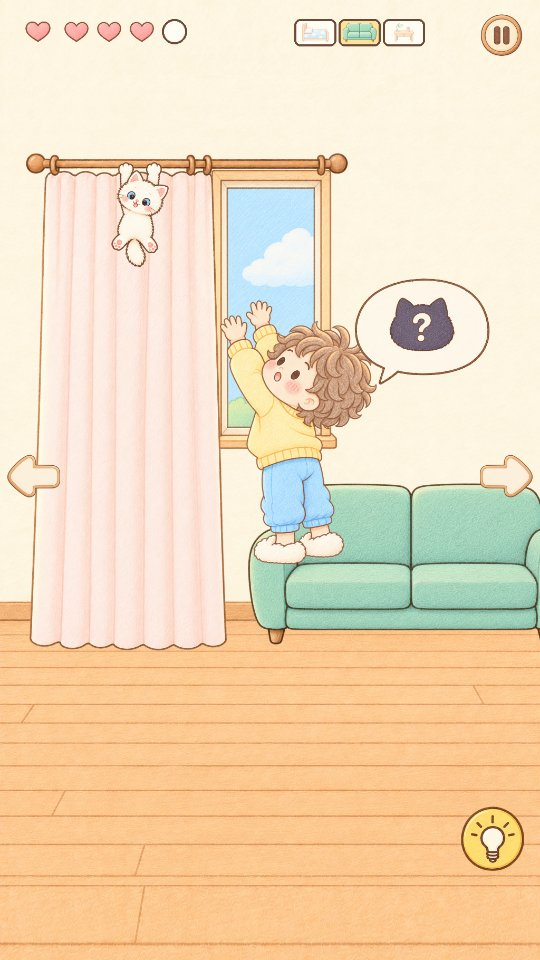
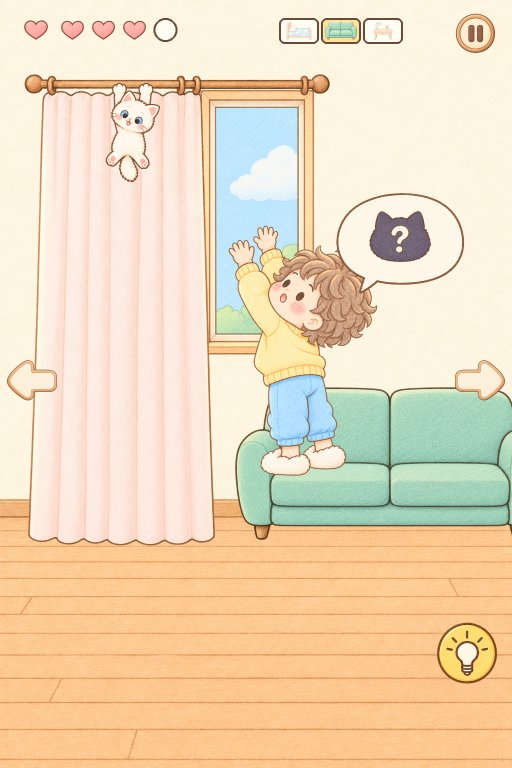
L3: ẩn quả bông riêng khi cột cào vẽ liền nhân vật (l3_cat_tree_player); L4: nhân vật đứng trên đệm ngồi sofa, lún nhẹ

diff --git a/game/src/level4.js b/game/src/level4.js
@@ -41,9 +41,9 @@ const OVERLAP = [14, 14, 10], FEET_SINK = 8;
 // Bong bóng nhiệm vụ lúc mở màn (G4-31: nhỏ hơn; G4-40: cạnh đầu nhân vật đứng trên sofa): tâm (toạ độ màn hình), cỡ so với bản chung.
 const BUBBLE = { x: 800, y: 470, k: 0.8 };
 const SOFA = { left: 470, width: 620 };              // G4-24: sofa theo demo phòng khách
-// G4-40: nhân vật đứng sẵn trên sofa cạnh rèm (không che chỗ xếp tháp): chân ở mặt nệm, cách mép trái sofa `dx`,
-// mặt nệm ở `seat` chiều cao phần vẽ sofa. Thỉnh thoảng (6–10 giây, khi ở phòng khách) kiễng chân với hụt một cái.
-const ON_SOFA = { dx: 95, seat: 0.5, every: [6000, 10000] };
+// G4-40: nhân vật đứng sẵn trên sofa cạnh rèm (không che chỗ xếp tháp): neo đáy (giữa hai dép) trên đệm ngồi, lún nhẹ;
+// cách mép trái phần vẽ sofa `dx`, ở `seat` chiều cao phần vẽ sofa. Thỉnh thoảng (6–10 giây, khi ở phòng khách) kiễng chân với hụt một cái.
+const ON_SOFA = { dx: 135, seat: 0.58, every: [6000, 10000] };
 const WINDOW_BOX = { right: 640, bottom: 710, height: 530 }; // cửa sổ đo trên l4_demo_living (khung + bậu; mép trái khuất sau rèm)
 const POSES = ['sua_curtain_banana', 'sua_curtain_one_paw', 'sua_curtain_upside', 'sua_curtain_sleep']; // đổi mỗi lần về phòng khách
 // Chỉ hàng sách tầng dưới cùng rơi (G4-18).

diff --git a/game/src/level3.js b/game/src/level3.js
@@ -779,8 +779,11 @@ export class Level3 extends ObjectLevel {
 
   curlOnTree(p) {
     const t = this.tree, r = this.artRect(t);
-    if ((this.A.entries.l3_cat_tree_player || {}).real && this.has('l3_cat_tree_player')) {
+    const drawn = (this.A.entries.l3_cat_tree_player || {}).real && this.has('l3_cat_tree_player');
+    if (drawn) {
+      // Ảnh Art vẽ liền cột cào + nhân vật + quả bông nhân vật đang vờn: ẩn nhân vật và quả bông riêng.
       p.setVisible(false);
+      this.pompom.setVisible(false);
       this.applyKey(t, 'l3_cat_tree_player');
     } else {
       this.applyKey(p, 'player_curl_on_tree');
@@ -795,6 +798,7 @@ export class Level3 extends ObjectLevel {
       this.sfx('l3_sfx_creak');
       this.treeSway = this.tweens.add({ targets: t, angle: { from: -2.5, to: 2.5 }, duration: 380, yoyo: true, repeat: 3, ease: 'Sine.inOut',
         onComplete: () => t.setAngle(0) });
+      if (drawn) return;
       this.swingPompom();
       this.fanPlay = this.time.addEvent({ delay: 1800, loop: true, callback: () => { if (this.phase === 'found') this.swingPompom(); } });
     });
